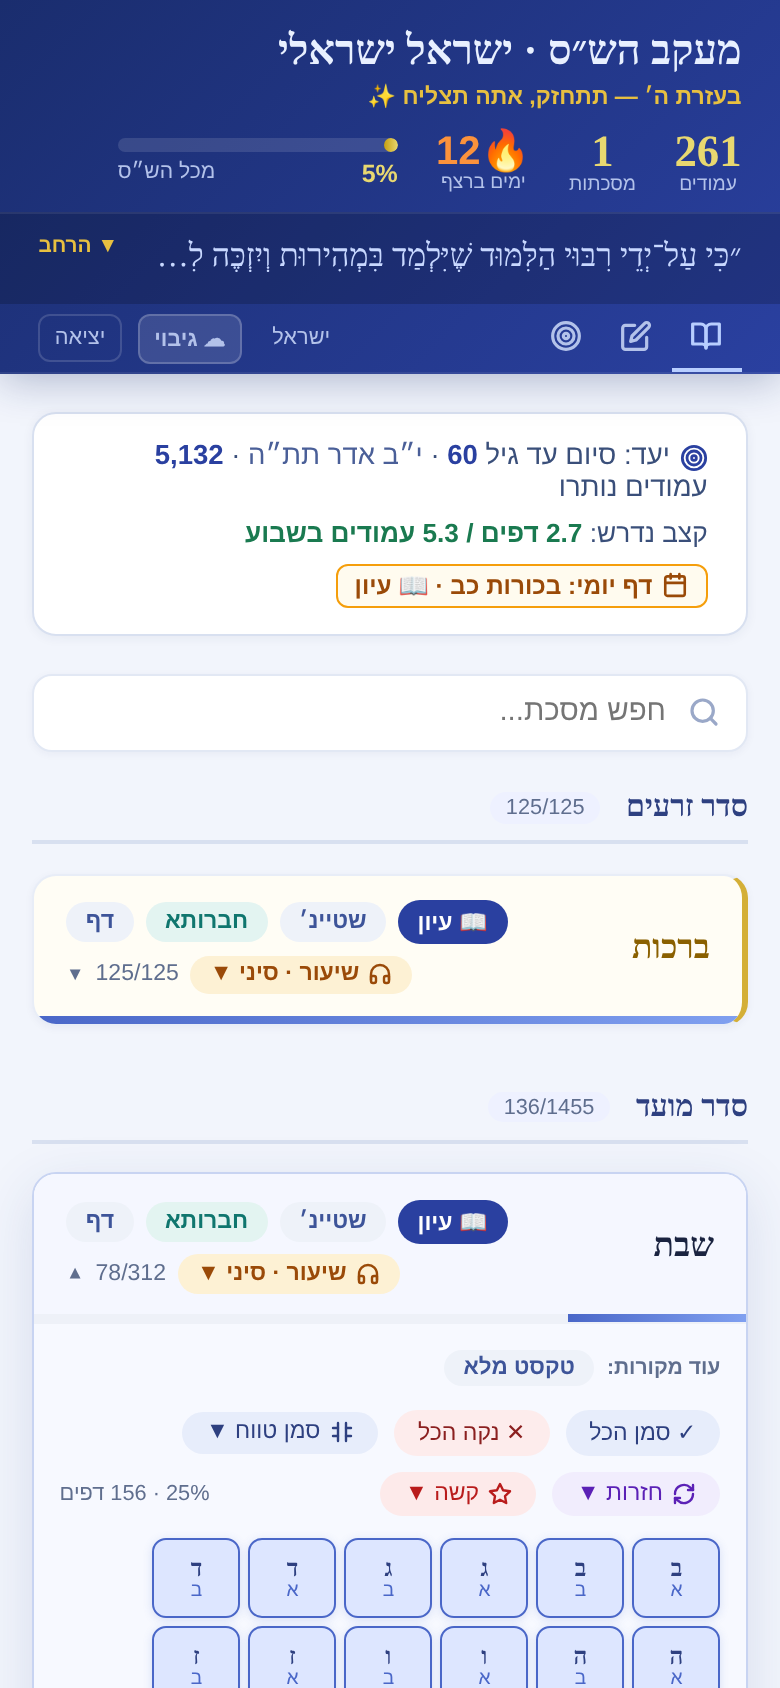
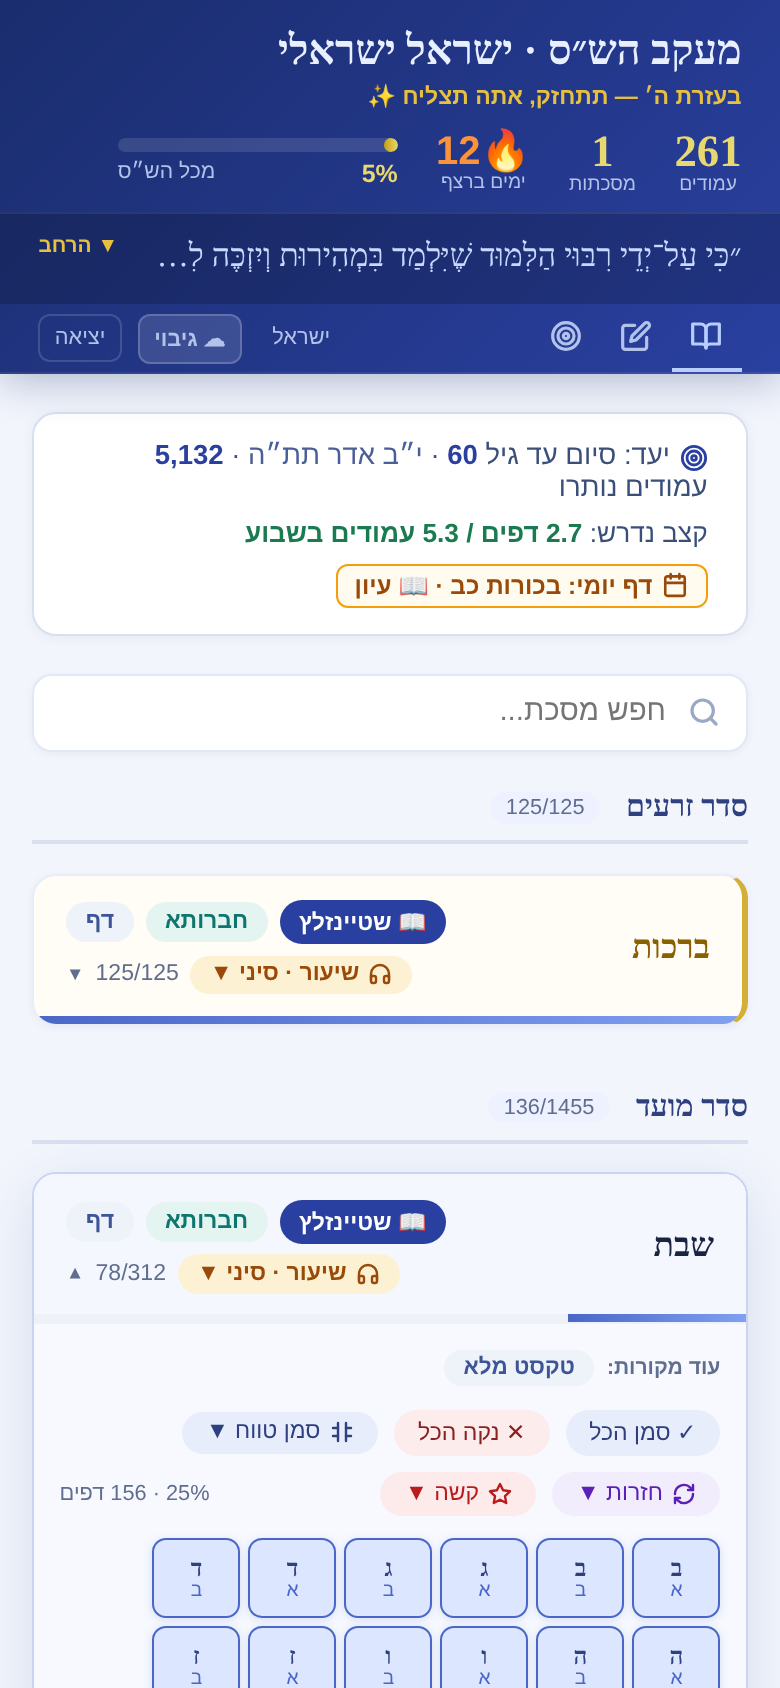
ux: כפתור אחד לשטיינזלץ בכרטיס המסכת — ״📖 שטיינזלץ״ פותח את מסך העיון (הקישור החיצוני הכפול הוסר)
Claude-Session: https://claude.ai/code/session_01XpPn1fVepfwFMWsuNWphJ3

Changed region(s): [[0.3385, 0.5237, 0.6462, 0.5853], [0.3385, 0.7085, 0.6462, 0.7393]]

diff --git a/index.html b/index.html
@@ -1647,10 +1647,9 @@ function App() {
                             {READER_TRACTATES[t.name] && (() => { const bm = readerMarks[t.name]; const at = bm && (bm.stop || bm.last); return (
                               <button onClick={e => { e.stopPropagation(); openReader(t.name); }} title={'עיון במסכת ' + t.name + ' עם ביאור שטיינזלץ'}
                                 style={{ fontSize:'0.72rem', color:'#fff', background:'#2a40a0', border:'none', borderRadius:99, padding:'0.24rem 0.62rem', fontFamily:"'Heebo',sans-serif", fontWeight:700, cursor:'pointer', whiteSpace:'nowrap' }}>
-                                📖 {at ? 'המשך · ' + unitLabel(t.name, at.split(':')[0]).replace('דף ', '') : 'עיון'}
+                                📖 {at ? 'שטיינזלץ · ' + unitLabel(t.name, at.split(':')[0]).replace('דף ', '') : 'שטיינזלץ'}
                               </button>); })()}
                             {TRACTATE_LINKS[t.name] && (<>
-                              <a href={'https://www.sefaria.org.il/Steinsaltz_on_' + TRACTATE_LINKS[t.name].sefaria + '?lang=he'} target="_blank" rel="noopener noreferrer" onClick={e => e.stopPropagation()} style={{ fontSize:'0.72rem', textDecoration:'none', color:'#3d5499', background:'#eef2f9', borderRadius:99, padding:'0.24rem 0.62rem', fontFamily:"'Heebo',sans-serif", fontWeight:600 }}>שטיינ׳</a>
                               {TRACTATE_LINKS[t.name].chavruta && <a href={'https://daf-yomi.com/BookFiles.aspx?type=1&id=' + TRACTATE_LINKS[t.name].chavruta} target="_blank" rel="noopener noreferrer" onClick={e => e.stopPropagation()} title="חברותא מבואר · באדיבות פורטל הדף היומי" style={{ fontSize:'0.72rem', textDecoration:'none', color:'#0f766e', background:'#e3f4f1', borderRadius:99, padding:'0.24rem 0.62rem', fontFamily:"'Heebo',sans-serif", fontWeight:600 }}>חברותא</a>}
                               <a href={'https://hebrewbooks.org/shas.aspx?mesechta=' + TRACTATE_LINKS[t.name].hb + '&daf=' + firstDaf(t) + '&format=pdf'} target="_blank" rel="noopener noreferrer" onClick={e => e.stopPropagation()} style={{ fontSize:'0.72rem', textDecoration:'none', color:'#3d5499', background:'#eef2f9', borderRadius:99, padding:'0.24rem 0.62rem', fontFamily:"'Heebo',sans-serif", fontWeight:600 }}>דף</a>
                               {TRACTATE_LINKS[t.name]?.sinaiMapId && (
